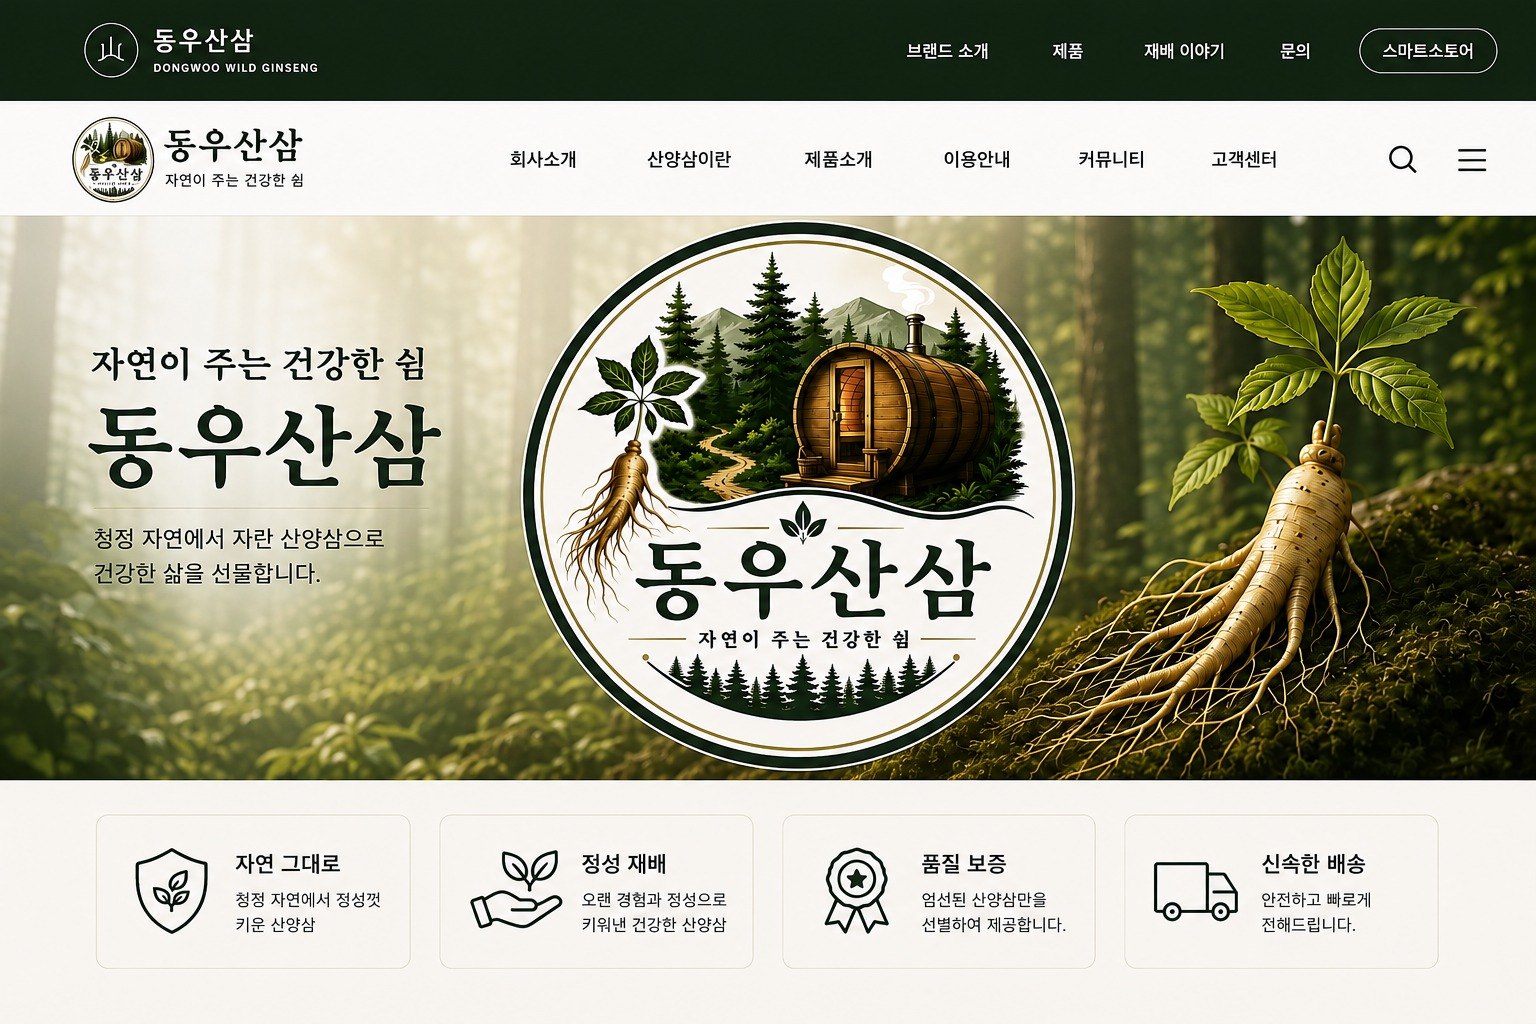
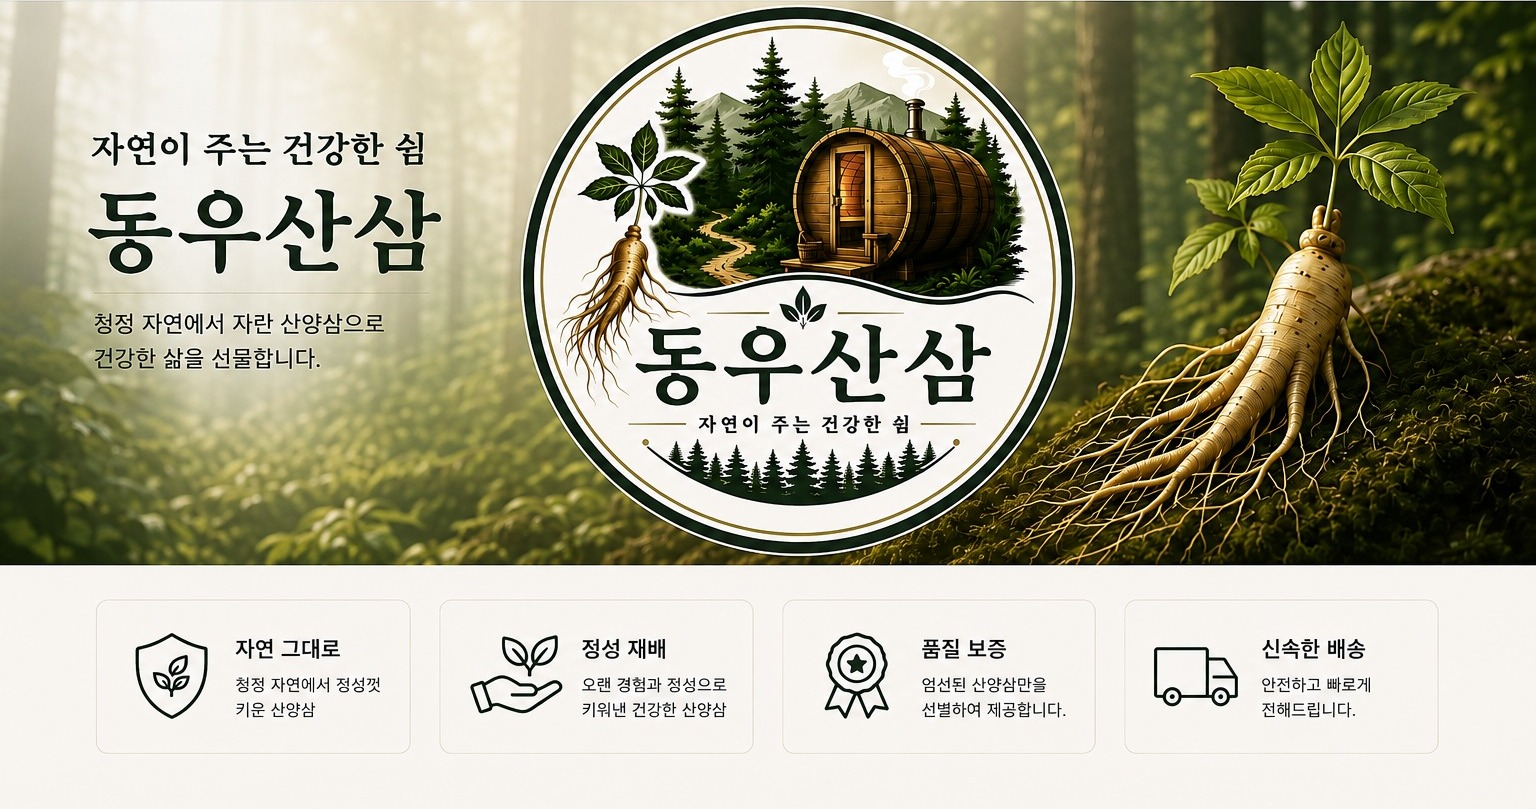
Add files via upload

diff --git a/index.html b/index.html
@@ -8,25 +8,7 @@
   <link rel="stylesheet" href="assets/css/style.css">
 </head>
 <body>
-  <header class="site-header">
-    <div class="wrap header-inner">
-      <a class="brand" href="#top" aria-label="동우산삼 홈">
-        <span class="brand-mark">山</span>
-        <span><strong>동우산삼</strong><small>DONGWOO WILD GINSENG</small></span>
-      </a>
-      <button class="menu-toggle" aria-expanded="false" aria-controls="main-nav">☰</button>
-      <nav id="main-nav" class="main-nav" aria-label="주요 메뉴">
-        <a href="#company">회사소개</a>
-        <a href="#ginseng">산양삼이란</a>
-        <a href="#products">제품소개</a>
-        <a href="#story">재배 이야기</a>
-        <a href="#contact">문의</a>
-        <a class="store-link" href="https://smartstore.naver.com/kfood_wild_ginseng" target="_blank" rel="noopener">스마트스토어</a>
-      </nav>
-    </div>
-  </header>
-
-  <main id="top">
+<main id="top" class="main-no-header">
     <section class="hero" aria-label="동우산삼 대표 이미지">
       <img src="assets/images/hero.jpg" alt="동우산삼 브랜드 대표 이미지">
     </section>

diff --git a/assets/css/style.css b/assets/css/style.css
@@ -19,3 +19,4 @@
 footer{background:#102b1c;color:#dbe5dd;padding:35px 0}.footer-inner{display:flex;justify-content:space-between;gap:20px}.footer-inner p{margin:0}
 @media(max-width:900px){.menu-toggle{display:block}.main-nav{display:none;width:100%;flex-direction:column;align-items:stretch;padding:10px 0 18px}.main-nav.open{display:flex}.header-inner{flex-wrap:wrap}.main-nav a{text-align:center}.values{grid-template-columns:repeat(2,1fr)}.split,.story-inner{grid-template-columns:1fr;gap:40px}.product-grid{grid-template-columns:1fr}.section-head,.contact-box,.footer-inner{align-items:flex-start;flex-direction:column}.contact-actions{width:100%;min-width:0}}
 @media(max-width:560px){.wrap{width:min(100% - 24px,1180px)}.section{padding:70px 0}.values{grid-template-columns:1fr}.values article{border-right:0;border-bottom:1px solid var(--line)}.brand small{display:none}.brand strong{font-size:19px}.contact-box{padding:28px}}
+.main-no-header{display:block}.hero{margin-top:0}

diff --git a/README.md b/README.md
@@ -1,9 +1,7 @@
-# 동우산삼 홈페이지 V2.2
-
-GitHub Pages용 전체 업로드 패키지입니다.
+# 동우산삼 홈페이지 V2.3
 
 변경 사항
-- 동우산삼 대표 제품 3종 실제 이미지 적용
-- 산양삼, 산삼 고추장, 산삼 된장 카드 구성
-- 제품 이미지 클릭 및 상품 보기 버튼을 스마트스토어로 연결
-- 제품 카드 반응형 및 호버 효과 적용
+- 실제 HTML 상단 헤더 전체 삭제
+- 대표 이미지 안에 포함된 비활성 메뉴 2줄 삭제
+- 대표 이미지 본문이 화면 최상단부터 시작되도록 정리
+- 기존 제품소개 및 스마트스토어 연결 유지